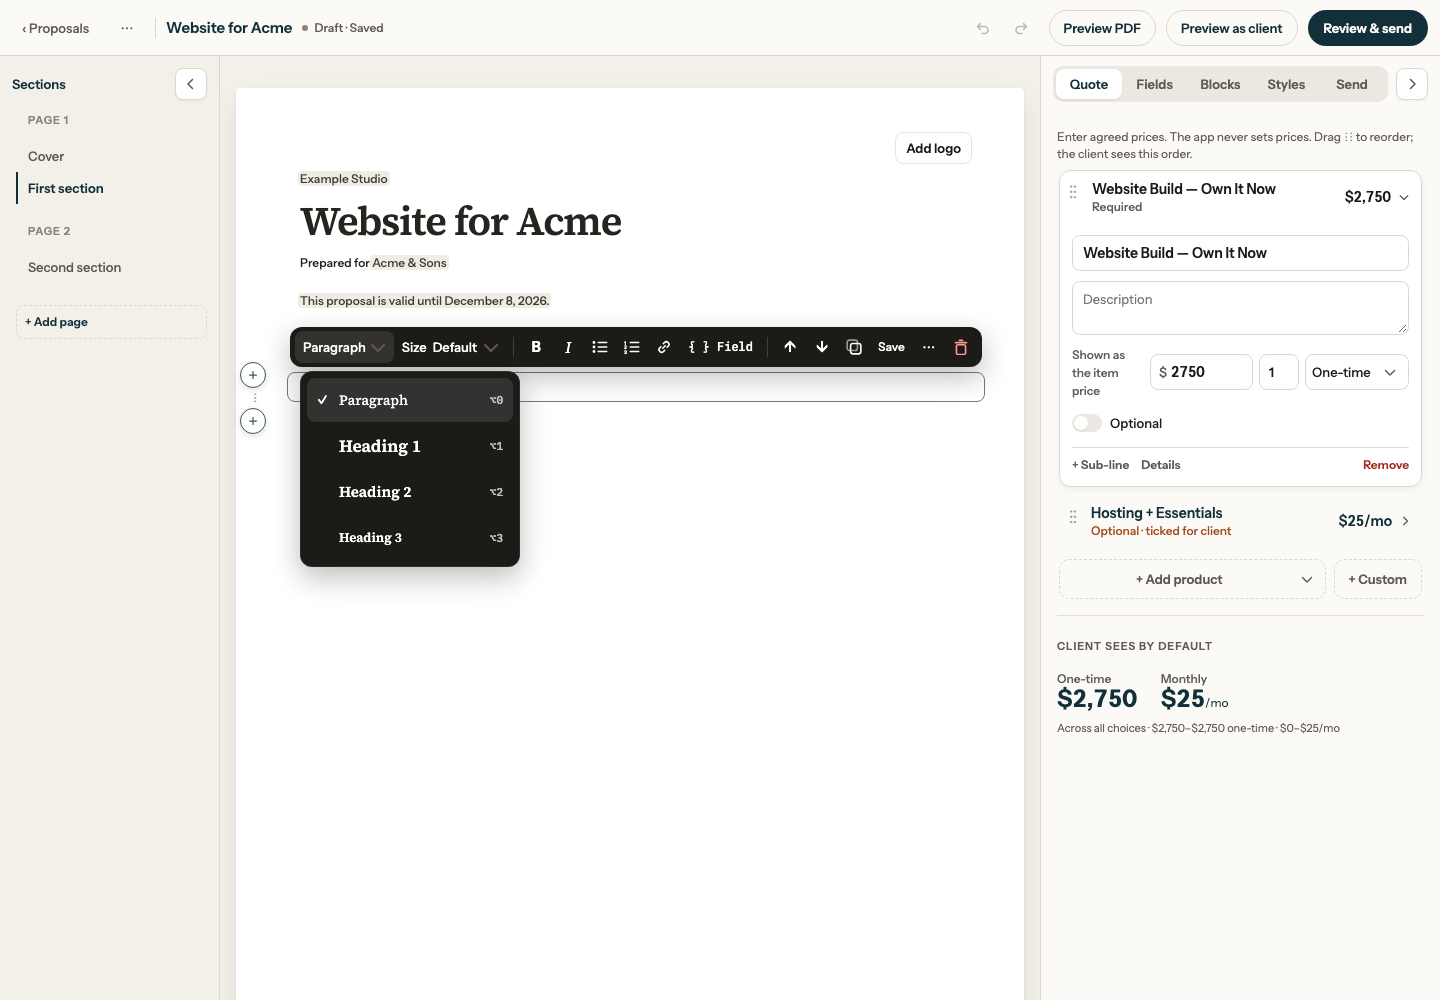
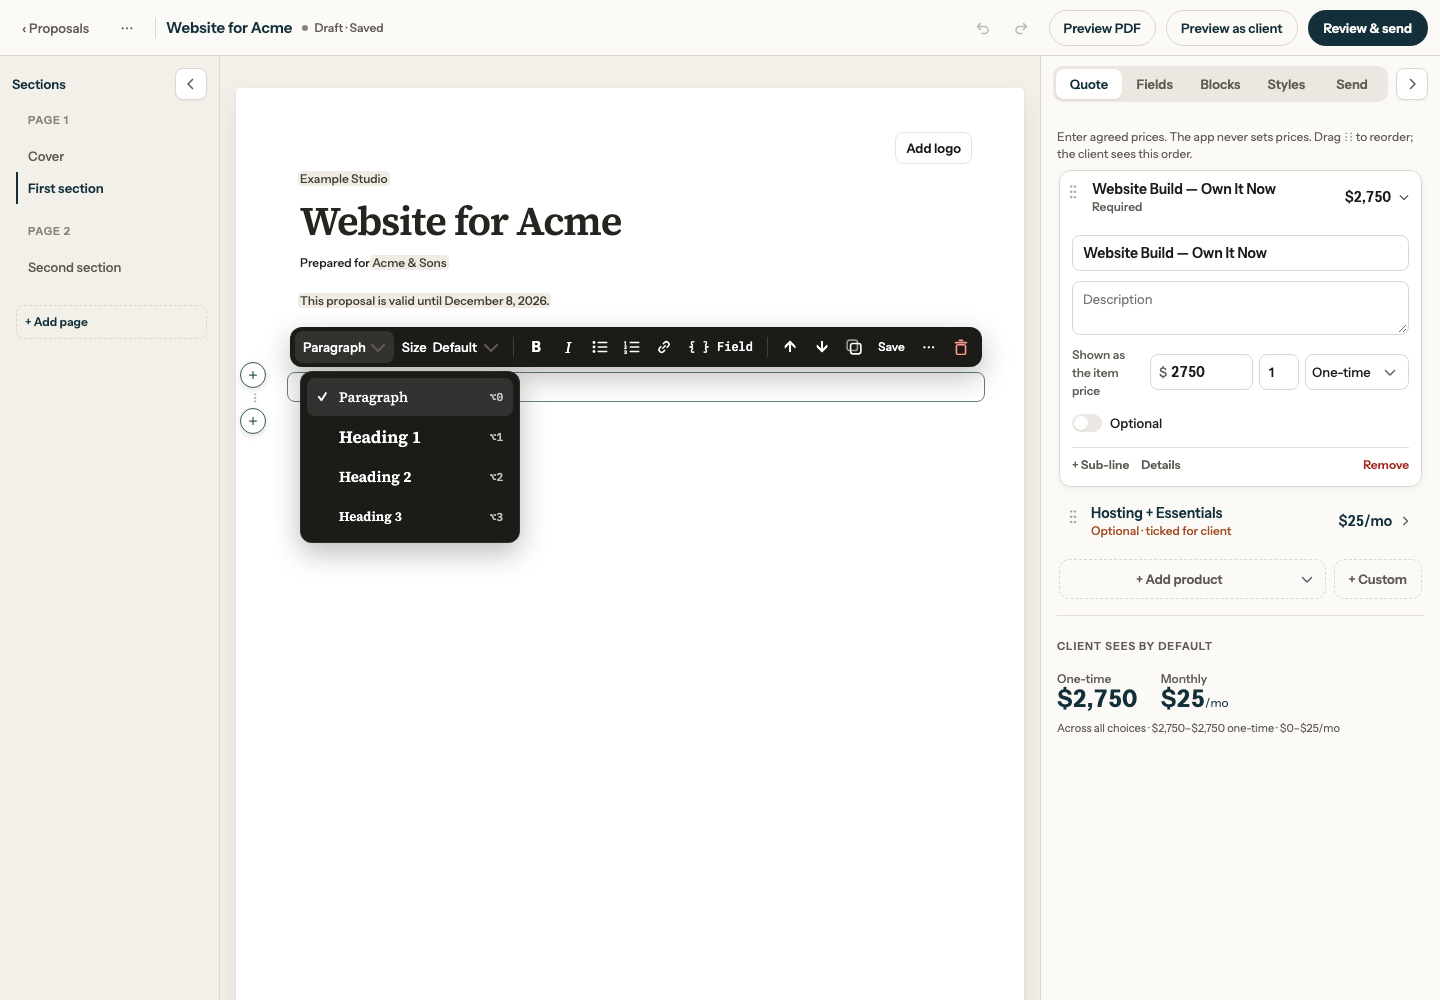
test: retain desktop menu sizing and synchronize conversion focus

Changed region(s): [[0.1875, 0.434, 0.375, 0.589], [0.2188, 0.372, 0.2812, 0.403]]

diff --git a/e2e/editor-round2.spec.ts b/e2e/editor-round2.spec.ts
@@ -1,3 +1,4 @@
+import { blockText } from "../src/lib/editor-document";
 import { openEditorPanel } from "./editor-ui";
 import { pdfPreview } from "../src/lib/pdf-preview";
 import { test, expect, type Page } from "@playwright/test";
@@ -224,17 +225,30 @@ for (const width of [1440, 375]) {
         .toBe(level);
       await bar.locator('button[aria-label="Text style"]').click();
       await page.getByLabel("Paragraph", { exact: true }).click();
-      await expect(frame.locator(".tiptap")).toBeFocused();
+      await expect(
+        bar.getByRole("button", { name: "Text style", exact: true }),
+      ).toBeFocused();
     }
     await frame.locator(".tiptap").fill("A retained sentence");
-    await frame.locator(".tiptap").evaluate((el) => {
-      const range = document.createRange();
-      range.setStart(el.querySelector("p")!.firstChild!, 0);
-      range.collapse(true);
-      getSelection()!.removeAllRanges();
-      getSelection()!.addRange(range);
-    });
-    await frame.locator(".tiptap").pressSequentially("## ");
+    await expect
+      .poll(() => blockText(f.current().content.find((b) => b.id === f.text)!))
+      .toBe("A retained sentence");
+    // The menu now returns focus to its trigger. Re-enter text and place the
+    // caret with real keys so the editor and browser share the same selection.
+    await frame.locator(".tiptap").press("ControlOrMeta+a");
+    await frame.locator(".tiptap").press("ArrowLeft");
+    // Let the browser selectionchange reach Tiptap before the next key.
+    await page.evaluate(
+      () =>
+        new Promise<void>((resolve) =>
+          requestAnimationFrame(() => requestAnimationFrame(() => resolve())),
+        ),
+    );
+    await frame.locator(".tiptap").pressSequentially("##");
+    await expect
+      .poll(() => blockText(f.current().content.find((b) => b.id === f.text)!))
+      .toBe("##A retained sentence");
+    await frame.locator(".tiptap").press("Space");
     await expect(frame.locator("h3 .tiptap")).toHaveText("A retained sentence");
     await expect
       .poll(() => f.current().content.find((b) => b.id === f.text)?.level)

diff --git a/src/app/editor.css b/src/app/editor.css
@@ -9065,9 +9065,14 @@ body:has(.studio-v3-editor) {
   min-width: 0;
   max-width: none;
   height: auto;
-  min-height: 44px;
+  min-height: var(--toolbar-menu-row-height, 44px);
   padding: 8px 10px;
   white-space: nowrap;
+}
+@media (min-width: 700px) {
+  .toolbar-popover.text-style-popover {
+    --toolbar-menu-row-height: 38px;
+  }
 }
 .toolbar-popover.text-style-popover {
   width: max-content;

diff --git a/DECISIONS.md b/DECISIONS.md
@@ -778,7 +778,8 @@ One shared quote-wide column resolver checks trimmed item descriptions before an
 
 ## Text-level menus and selected Studio hover (Nov 8 owner fixes)
 
-- Root cause of the horizontal text-level menu: the native top-layer popover remains inside the toolbar DOM. Broad `.editor-edit-bar` button selectors made menu buttons inline-flex, with toolbar sizing and the text-style trigger's 160px maximum. A shared ToolbarPopover menu/listbox row contract now owns vertical layout, full-width rows and 44px targets across Text style, Size and More. Text levels retain preview type, show the selected check/highlight and right-aligned shortcuts, and use the shared below/flip-above positioning against the visual viewport (including the phone keyboard). Selected phone toolbars also escape the legacy `.rich-toolbar` opacity fade when focus enters a menu.
+- Root cause of the horizontal text-level menu: the native top-layer popover remains inside the toolbar DOM. Broad `.editor-edit-bar` button selectors made menu buttons inline-flex, with toolbar sizing and the text-style trigger's 160px maximum. A shared ToolbarPopover menu/listbox row contract now owns vertical layout, full-width rows across Text style, Size and More, retaining 38px desktop text-level rows and 44px phone targets. Text levels retain preview type, show the selected check/highlight and right-aligned shortcuts, and use the shared below/flip-above positioning against the visual viewport (including the phone keyboard). Selected phone toolbars also escape the legacy `.rich-toolbar` opacity fade when focus enters a menu.
 - Menu conversion completes its existing editor/caret restoration before returning focus to the live trigger (which can remount during paragraph ↔ heading conversion). The optional UI-only completion callback does not change conversion, history, Alt+0–3, saved data, page rules or drag rules.
 - Root cause of the unreadable Studio nav hover: the general staff active-hover rule supplied an Ink hover background while Studio's selected-nav override retained Ink text. Selected controls now expose their existing foreground/background as shared `--control-active-*` tokens. One shared active+hover rule consumes that pair in Studio and the editor panels. Native popover menus and the Blocks catalogue’s legacy keyboard-active buttons keep their own selected/hover palettes; only legacy navigation links use the shared `.active` guard. Resting colors, inactive hover, borders, sizes and fonts stay unchanged; filled chips, paper-backed style segments, neutral tabs and nav each keep their existing palette in light and dark mode. Document formatting bars/menus keep their own dark palette; color swatches keep their exact inline fill.
 - Audit covers Studio sidebar and Workspace section navigation, tablet chips, Templates tabs and Product filter chips, Ink/Accent/Custom, Standard/Comfortable, Desktop/Phone and email field/value previews, Card/Card + ACH (the existing native select), Quote/Fields/Blocks/Styles/Send tabs, and selected color-picker swatches. Browser checks compare resting/hover paint and geometry, enforce 4.5:1 text contrast, and run axe contrast checks on those controls; full menu axe checks cover both widths. No SQL, billing, signing, document geometry or persisted-format changes.
+- Existing heading-conversion browser checks now assert the menu trigger's focus after choosing Paragraph, matching this owner's explicit focus-return rule. The following editing step re-enters the text and sets its caret with keyboard selection instead of an unsynchronized DOM range, and waits for the typed prefix to reach editor state before the Space shortcut. Their text-entry, conversion, heading/content, spacing and handle assertions stay unchanged. The established 38px desktop text-style typography assertion stays unchanged.
